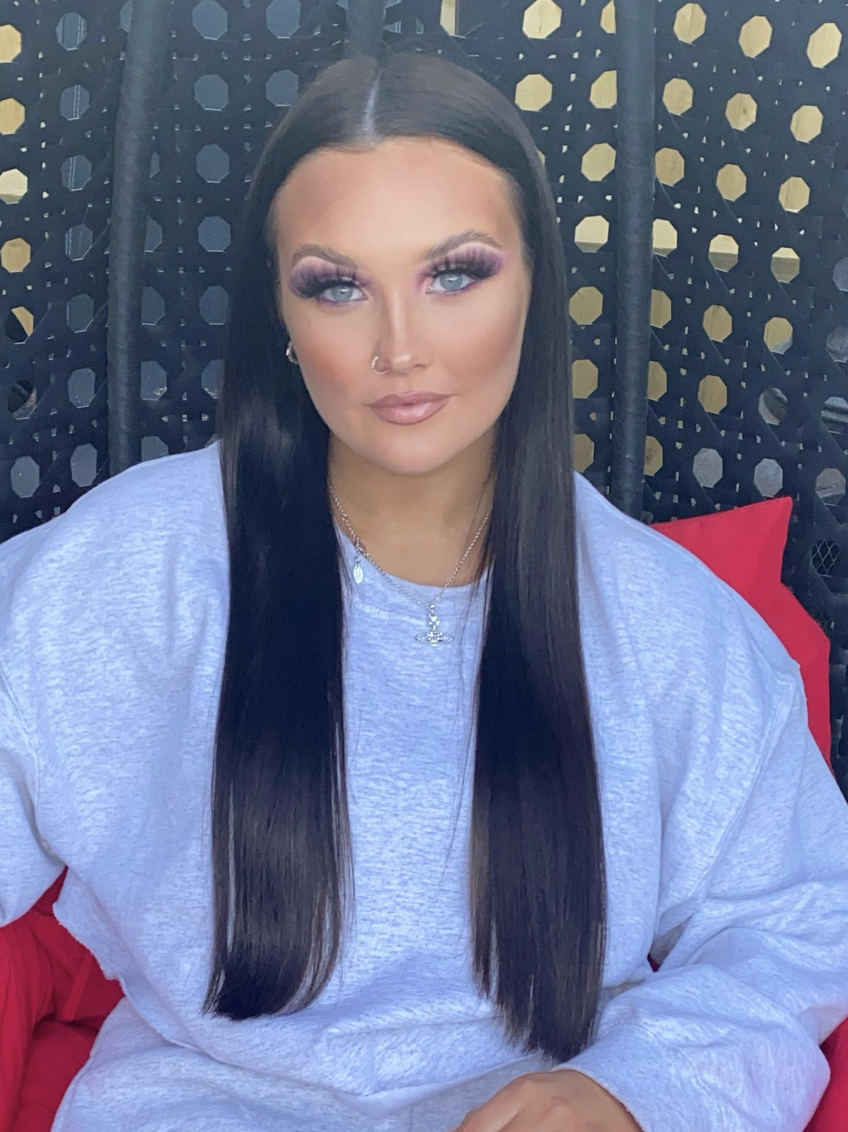
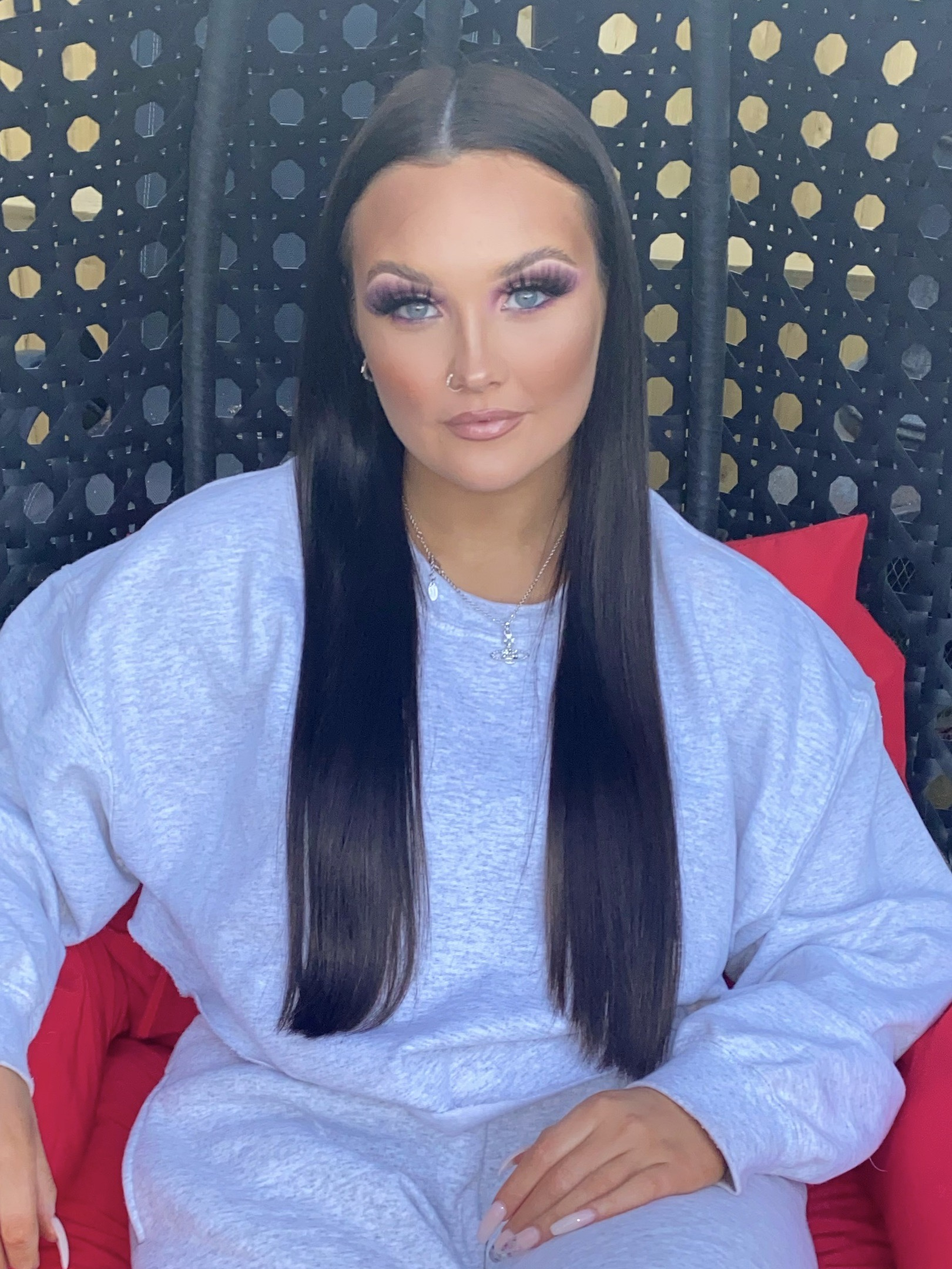
s

diff --git a/main.js b/main.js
@@ -10,9 +10,15 @@
     let empty3 = document.getElementById("empty3");
     let empty4 = document.getElementById("empty4");
     let twitter= document.getElementById("twitter");
-    
+    let me= document.getElementById("abby");
 
-    
+    function changePic() {
+        me.src = "images/melaugh.jpg";
+      }
+      
+    function normalPic() {
+        me.src = "images/me.jpg";
+      }
    
     if (submit!=null){
         submit.addEventListener("click", form);

diff --git a/about.html b/about.html
@@ -25,7 +25,7 @@
   </nav>
 
     <div class="container">
-      <img class="about-profile" src="images/me.jpg" id="abby" alt="abby"> 
+      <img class="about-profile" src="images/me.jpg" id="abby" onmouseover="changePic()" onmouseout="normalPic()" alt="abby"> 
       <div class="row">
         <div class="col">
           <div class="about-header">
